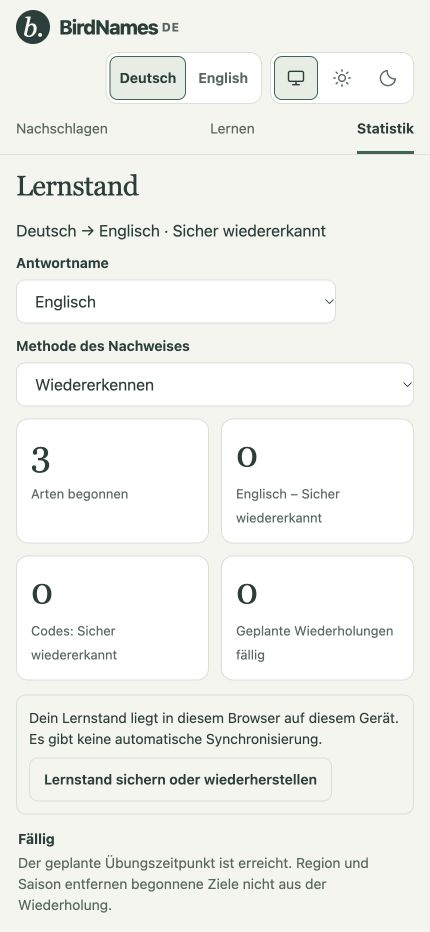
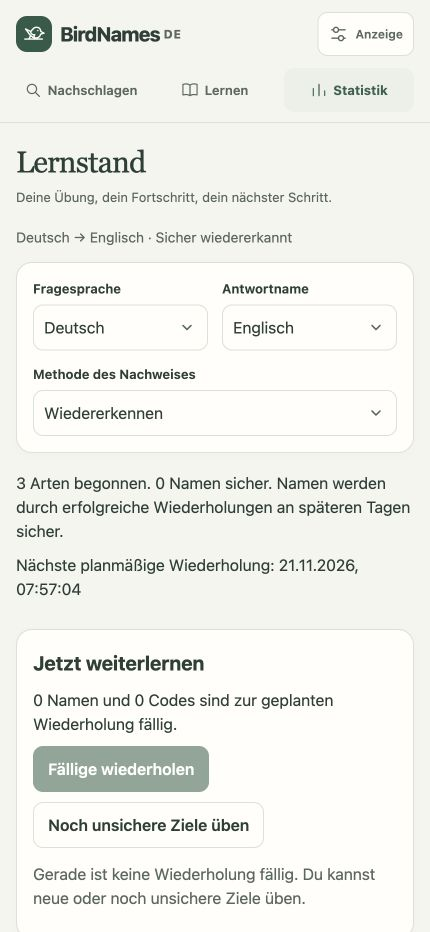
Refresh documentation and README screenshots for current UI

diff --git a/docs/learning-and-storage.md b/docs/learning-and-storage.md
@@ -2,11 +2,13 @@
 
 [Back to the README](../README.md)
 
+Reviewed against commit `62f79cb` on 20 November 2026.
+
 Paths in code examples are relative to the repository root. UI labels use the English interface. Dated review reports retain their release-specific results; the thematic guides describe the documented current behavior.
 
 ## Name languages and learning contexts
 
-The header offers explicit German and English interface choices. In either interface, question and answer names are independently selectable: German, English, Dutch, French, Finnish and the binomial scientific name. A swap button reverses them. Names, codes and mixed lessons support text entry, flashcards, direct multiple choice and “Think first” (options initially hidden). Both names must exist for a species to be eligible; missing translations never fall back to a different answer language. A paused lesson whose name data cannot be loaded is preserved and cannot be resumed until the data returns.
+German and English interface choices are visible in the desktop header; phones group them with theme controls under **Display**. Both interfaces share the same learning state. In either interface, question and answer names are independently selectable: German, English, Dutch, French, Finnish and the binomial scientific name. A swap button reverses them. Names, codes and mixed lessons support text entry, flashcards, direct multiple choice and “Think first” (options initially hidden). Both names must exist for a species to be eligible; missing translations never fall back to a different answer language. A paused lesson whose name data cannot be loaded is preserved and cannot be resumed until the data returns.
 
 Dutch names for the expanded catalogue come from the `Dutch` column of the retained official `eBird_Taxonomy_v2025_5-tab_30Oct2025.xlsx` records. Reproduce them with `python3 scripts/build-name-language.py --language nl --column Dutch`. `dist/languages/nl.json` records provenance and exact official names. Names are literal official records; the catalogue expansion retains the pinned v2025 taxonomy without speculative translations. Dutch names are searchable and shown in lookup alongside the existing names, photos and attribution.
 
@@ -38,7 +40,7 @@ Study feedback and backup errors use explicit locale-aware message composition. 
 
 ## Learning-progress terminology
 
-The daily round offers at most ten targets, due reviews first, with three new introductions per local calendar day across languages and methods. Region/season/species filters govern discovery, while started targets remain eligible for review. Free practice retains the full filters and can introduce more targets. “Keep learning” starts an optional round of up to ten questions directly from completion or an exhausted daily queue, preserving shared species/language/method settings while ignoring hidden custom progress filters and question counts. Custom and direct practice share the queue builder in `dist/practice-queue.js` (`node scripts/test-practice-queue.mjs`). New pairs are introduced before practice. Introduction cards lead with a short memorisation instruction and use the focused study view with Next/Pause controls and compact spacing. At viewport widths of at least 900 px and heights of at least 650 px, actions stay inside the card using sticky positioning; smaller viewports retain the fixed action bar. Image heights budget for all image rows, captions and card padding, with readable minimum sizes and scrolling on small screens. The monospace code badge follows the full answer name on introduction, flashcard and feedback views; code-only answers are not duplicated. “Think first” hides options until requested, without a timer; option order, introduction state and feedback survive pause/reload.
+The daily round offers at most ten targets, due reviews first, with three new introductions per local calendar day across languages and methods. Region/season/species filters govern discovery, while started targets remain eligible for review. Free practice retains the full filters and can introduce more targets. “Keep learning” starts an optional round of up to ten questions directly from completion or an exhausted daily queue, preserving shared species/language/method settings while ignoring hidden custom progress filters and question counts. Custom and direct practice share the queue builder in `dist/practice-queue.js` (`node scripts/test-practice-queue.mjs`). New pairs are introduced before practice. Introduction cards lead with a short memorisation instruction and use the focused study view with Next/Pause controls and compact spacing. At viewport widths of at least 900 px and heights of at least 650 px, actions stay inside the card using sticky positioning; smaller viewports retain the fixed action bar. Image heights budget for all image rows, captions and card padding, with readable minimum sizes and scrolling on small screens. Introductions, revealed flashcards and feedback separate the main answer from a reference panel. In name questions, the scientific reference and smaller code badges appear together after the answer; introductions keep codes in the supplementary species section. Code answers are not duplicated. “Think first” hides options until requested, without a timer; option order, introduction state and feedback survive pause/reload.
 
 `dist/learning-model.js` owns the shared product constants and pure scheduling logic. Evidence is separated by species, question language, answer target and method family (recognition, recall, self-assessment). Three consecutive due successes at least 24 hours after the previous graded attempt confirm security; initial practice, hints, retries and early practice do not. Fixed intervals remain 1/3/7/14/30/60 days. Errors reduce the stage and schedule a ten-minute review. Correct early practice/retries preserve scheduled dates; a successful due short-gap repair schedules the next day without confirmation. Hints preserve confirmations and retain earlier dates. Feedback explanations remain below the images. First answers, supported answers and bounded extra attempts are counted separately. A retry requires at least one intervening question and is preferably placed after three.
 
@@ -60,7 +62,9 @@ completion conditions in German and English.
 
 ## Answer-card explanations
 
-The first-attempt label is hidden; in-round retries show only “Repeat”. After grading, a closed “Why am I seeing this bird?” disclosure follows all photos and their credits, before the Next action in reading/tab order. It contains the pre-grading question reason, method-specific confirmations and scheduling details. Reasons are captured before reviewing the answer and saved with the lesson queue; older graded sessions use neutral wording rather than inferring the reason from updated records. Screenreader feedback focus describes the answer, without automatically reading the folded learning details.
+The first-attempt label is hidden; retries show “Repeat”. Feedback separates the result, the user’s answer and the accepted answer. A reference panel shows the scientific name, codes and German alternatives; comparison pictures follow with their own credits. The former outer More information disclosure has been removed. Below pictures, sibling disclosures provide name meaning, German-name notes/sources and “Why am I seeing this bird?”, followed by a separate eBird link and the Next action. The learning-context disclosure contains the saved pre-grading question reason, confirmations and schedule. Older graded sessions use neutral wording rather than inferring their reason from updated records; focused feedback does not automatically announce folded details.
+
+If German is either the question or answer language, all 47 current alternatives for 34 species are visible during introductions, reveals and feedback. Unambiguous alternatives remain accepted answers. Spatz, Grünling and Rüttelfalke are separately labelled ambiguous and are not accepted as unambiguous answers. Historical names retain their qualifications in source notes. Source explanations and links stay with the name they document. See [the complete display audit](ui-consistency-20261113.md#complete-german-alternative-display-audit) and `scripts/test-answer-feedback.mjs`.
 
 Regional round selection (region, season, chosen frequency groups and historical period) is shown in the folded answer-card explanation instead of above every question. A current addition retains only a short “Currently reported” badge; its observation/expiry dates are shown in the explanation together with the original round-selection snapshot.
 
@@ -71,9 +75,9 @@ The completion summary offers “Back to learning settings”, which opens the e
 Large backups (compact JSON at least 1 MiB) are automatically saved as `.json.gz`
 when the browser supports both Compression Streams APIs. Small backups remain
 readable `.json`; missing or failed compression falls back to compact JSON.
-Both formats retain the existing v1/v2 schema and the same preview and explicit,
-atomic replacement flow. Older JSON exports above the former 5 MB limit remain
-importable. Gzip is detected by its header; damaged archives are rejected.
+Both file formats carry the current version-3 backup schema; versions 1 and 2
+remain importable through the same preview and explicit, atomic replacement flow.
+Older JSON exports above the former 5 MB limit remain importable. Gzip is detected by its header; damaged archives are rejected.
 The common input/expanded-output/export budget is 128 MiB. Expanded bytes are
 counted while streaming and decompression is cancelled on overflow; compression
 does not bypass this limit. Export refuses an oversized regular backup instead
@@ -85,7 +89,7 @@ truncation/checksum errors and bounded expansion.
 
 Statistics visibly identifies browser/device-local storage and links directly to backup controls. The dated JSON download includes all answer-language/code records, method/direction evidence and the daily introduction ledger plus saved species independently of current filters; preferences, paused sessions, drafts and cached media are excluded. Selecting a file only validates and previews it, showing its date, supported learning-target/species counts and the current browser counts. Explicit replacement overwrites all progress without merging and ends paused sessions. Users can download their current records before replacement or cancel without changing them. Empty backups have a distinct removal warning; files containing only unsupported records are rejected, while partially supported files report skipped records.
 
-`dist/learning-storage.js` writes records, the daily ledger and saved lessons in one transaction. Restore publishes the new in-memory state only after the transaction commits; quota, closed-database or synchronous write failures preserve the prior state. Export format v3 includes method/direction evidence, the daily introduction ledger and saved species. Imports accept v1/v2/v3; old counters/dates are retained as historical data, with no invented source-language or method evidence. The first graded legacy review claims its old date once for the selected context. Paused v1 sessions remain resumable. Browser downloads are announced as started, rather than claiming the file has been saved to disk.
+`dist/learning-storage.js` writes records, the daily ledger, saved species and saved lessons in one transaction. Restore publishes the new in-memory state only after the transaction commits; quota, closed-database or synchronous write failures preserve the prior state. Export format v3 includes method/direction evidence, the daily introduction ledger and saved species. Imports accept v1/v2/v3; old counters/dates are retained as historical data, with no invented source-language or method evidence. The first graded legacy review claims its old date once for the selected context. Paused v1 sessions remain resumable. Browser downloads are announced as started, rather than claiming the file has been saved to disk.
 
 ## Protected progress recovery
 
@@ -119,11 +123,11 @@ See [quality-review-20261105.md](quality-review-20261105.md) for the original fi
 
 ## Data and privacy information
 
-`dist/info-page.js` renders matching German and English information sections. Species/media totals and regional coverage/timestamps derive from loaded data; the review date is separate from taxonomy and dataset dates. English source links have English descriptions and retain original titles in a disclosure. The page documents the Actions-only eBird fetch, hosting requests, shared learning context, local storage/cache, backup scope and domain migration. Tests: `node scripts/test-information.mjs`.
+`dist/info-page.js` renders matching German and English information sections. Species/media totals and regional coverage/timestamps derive from loaded data; the review date is separate from taxonomy and dataset dates. English source links have English descriptions and retain original titles in a disclosure. Both information routes have collapsible contents lists with focusable section targets. The page documents the Actions-only eBird fetch, hosting requests, shared learning context, local storage/cache, backup scope and domain migration. Tests: `node scripts/test-information.mjs`.
 
-## Usability changes on 8 November 2026
+## Saved species, statistics and round recovery
 
-Basic learning settings group target, languages, method and pictures before the daily action. Regional and species controls are independently expandable below it. Scientific reference names remain visible on study cards. Answer feedback and revealed flashcards also show the codes directly, at a smaller font size; code answers are not duplicated. Introductions keep supplementary codes inside More information. Origins and external details remain folded. Hinted success and any added retry are explained in immediate feedback. The visible phase distinguishes main questions from extra attempts.
+The daily round is the primary action. On desktop it sits beside the learning-settings summary; on phones these stack. **Change settings** opens target, languages, method and pictures. **Change species selection** separately opens region, seasonal/group filters and selected species. Both offer a direct return to the daily round with focus on a visible action. Hinted success and added retries are explained immediately; the current phase distinguishes main questions from extra attempts.
 
 Statistics has its own persisted question/answer/method viewing context. Changing its selectors does not write learning settings. Only explicit practice actions apply that context. Recognition retains the current recognition format where possible, otherwise Think first.
 

diff --git a/README.md b/README.md
@@ -6,38 +6,54 @@ Look up bird names and learn them with short, spaced-repetition practice rounds.
 
 ## Features on mobile
 
+Current interface, reviewed on 20 November 2026. The screenshots below use the German interface in a mobile browser viewport.
+
 <table>
   <tr>
     <td width="50%" valign="top">
       <h3>Find names across languages</h3>
       <p>Search names and codes, then open a species to compare German, English, Dutch, French, Finnish and scientific names.</p>
-      <a href="docs/screenshots/mobile-lookup.jpg"><img src="docs/screenshots/mobile-lookup.jpg" width="280" alt="Mobile lookup for Blaumeise, showing Eurasian Blue Tit, Pimpelmees and Cyanistes caeruleus"></a>
+      <a href="docs/screenshots/mobile-lookup.jpg"><img src="docs/screenshots/mobile-lookup.jpg" width="280" alt="Expanded mobile lookup card for Blaumeise with English, Dutch, French, Finnish and scientific names plus official codes"></a>
     </td>
     <td width="50%" valign="top">
       <h3>Build a daily learning habit</h3>
       <p>Choose your region, season and languages. Daily rounds introduce a few new targets and bring back scheduled reviews.</p>
-      <a href="docs/screenshots/mobile-daily-learning.jpg"><img src="docs/screenshots/mobile-daily-learning.jpg" width="280" alt="Mobile daily learning setup for German to English, with autumn species from Germany and three new names today"></a>
+      <a href="docs/screenshots/mobile-daily-learning.jpg"><img src="docs/screenshots/mobile-daily-learning.jpg" width="280" alt="Mobile daily round with three new English bird names, collapsed settings and the current German autumn selection"></a>
     </td>
   </tr>
   <tr>
     <td width="50%" valign="top">
       <h3>Practise bird names</h3>
       <p>Think first, then reveal the choices. Text input, flashcards and direct multiple choice are also available.</p>
-      <a href="docs/screenshots/mobile-practice.jpg"><img src="docs/screenshots/mobile-practice.jpg" width="280" alt="Mobile German-to-English practice question for Stockente with four answer choices and round progress"></a>
+      <a href="docs/screenshots/mobile-practice.jpg"><img src="docs/screenshots/mobile-practice.jpg" width="280" alt="Mobile German-to-English think-first question for Buntspecht after revealing four answer choices"></a>
     </td>
     <td width="50%" valign="top">
       <h3>Keep track of your progress</h3>
-      <p>See started species, secure learning targets and due reviews by language and method. Back up or restore your browser-local progress.</p>
-      <a href="docs/screenshots/mobile-progress.jpg"><img src="docs/screenshots/mobile-progress.jpg" width="280" alt="Mobile learning statistics after a three-species example round, with language and method selectors and a backup action"></a>
+      <p>View started species, secure learning targets and scheduled reviews using independent language and method selectors.</p>
+      <a href="docs/screenshots/mobile-progress.jpg"><img src="docs/screenshots/mobile-progress.jpg" width="280" alt="Mobile learning statistics after a three-question example round, showing the language and method selectors and next scheduled review"></a>
+    </td>
+  </tr>
+  <tr>
+    <td width="50%" valign="top">
+      <h3>Understand each answer</h3>
+      <p>Feedback separates the accepted name, scientific reference and official codes. Pictures and their credits follow, with further explanations below.</p>
+      <a href="docs/screenshots/mobile-feedback.jpg"><img src="docs/screenshots/mobile-feedback.jpg" width="280" alt="Correct Buntspecht answer with Great Spotted Woodpecker, Dendrocopos major, official codes and a credited comparison photo"></a>
+    </td>
+    <td width="50%" valign="top">
+      <h3>Save birds for later</h3>
+      <p>Keep a personal species list and practise it with your choice of languages and answer method.</p>
+      <a href="docs/screenshots/mobile-saved-species.jpg"><img src="docs/screenshots/mobile-saved-species.jpg" width="280" alt="Mobile saved-species list containing Blaumeise and the language and answer-method controls for practising it"></a>
     </td>
   </tr>
 </table>
 
-German interface, captured on 8 November 2026 at 430 × 932 CSS pixels (iPhone-sized viewport). Statistics show a three-question example round. Click an image to view it at full size.
+Captured on 20 November 2026 at 430 × 932 CSS pixels using a separate local preview. Lookup and feedback are scrolled to show their details. Statistics show a completed three-question example round; the next-review date belongs to that example. These are browser viewport captures, not physical-device tests. Click an image to view it at full size.
+
+Photos visible in the feedback screenshot: Charles J. Sharp, [male](https://commons.wikimedia.org/wiki/File:Great_spotted_woodpecker_(Dendrocopos_major)_male_Drenthe.jpg) and [female](https://commons.wikimedia.org/wiki/File:Great_spotted_woodpecker_(Dendrocopos_major)_female_Drenthe.jpg) Great Spotted Woodpecker, [CC BY-SA 4.0](https://creativecommons.org/licenses/by-sa/4.0).
 
 ## Save birds for later practice
 
-Use **Save species** in bird details, then open **Saved species** from Lookup or Learn. A saved-species round uses only that list, independently of regional, seasonal and progress filters. It never replaces an existing paused round.
+Use **Save species** on a species card or in search-result details, then open **Saved species** from Lookup or Learn. A saved-species round uses only that list, independently of regional, seasonal and progress filters. It never replaces an existing paused round.
 
 ## How learning works
 
@@ -47,13 +63,15 @@ Your daily round prioritises due reviews and introduces at most three new names 
 
 Choose text input, flashcards, multiple choice or “Think first”, which initially hides the choices. Photos appear during introductions and after answers when pictures are enabled. Statistics distinguish recognition, free recall and self-assessment; progress in one method or language direction does not automatically count as secure knowledge in another.
 
-The app explains its scheduling rules and research references under **Learning method**. See [learning, languages and storage](docs/learning-and-storage.md) for implementation details.
+German alternatives are visible during introductions, answer reveals and feedback whenever German is the question or answer language. Ambiguous alternatives such as Spatz are labelled and shown separately from accepted answers; historical names and source notes remain available in disclosures.
+
+On phones, **Display** groups interface-language and theme controls. **Learning method** and **Data & privacy** include collapsible contents lists. The app explains its scheduling rules and research references under **Learning method**. See [learning, languages and storage](docs/learning-and-storage.md) for implementation details.
 
 ## Privacy and limits
 
 Learning progress is stored in your browser on your device. There is no authentication, analytics, server-side progress database or automatic account/device sync. Browser privacy settings or storage cleanup can remove local progress.
 
-Use **Statistics → Back up and restore progress** to export a portable backup. Importing a backup replaces the destination browser’s progress after confirmation. Saved species are included in version-3 backups; older backups retain the destination browser’s saved-species list. Other preferences and paused rounds are not included. Before changing browsers or site domains, export from the old location first.
+Use **Statistics → Back up and restore progress** to export a portable backup. Backups use `.json`, or `.json.gz` for large exports when browser compression is available. Importing a checked backup replaces the destination browser’s progress after confirmation. Saved species are included in version-3 backups; older backups retain the destination browser’s saved-species list. Other preferences and paused rounds are not included. Before changing browsers or site domains, export from the old location first.
 
 There is no promised offline mode. The app loads its data and photos from static hosting; regional eBird updates run through GitHub Actions, and the browser does not contact the eBird API. Country-list membership records occurrence, including historical rarities and some introduced or escaped birds; it does not establish breeding status. See the in-app **Data & privacy** page for coverage, source periods and limitations.
 
@@ -75,7 +93,7 @@ CI also runs the complete Node/Python suites, data reproducibility checks and ph
 
 ## Data sources and acknowledgement
 
-Taxonomy and common names use the reviewed eBird/Clements 2025 catalogue. Official quick codes come from the 2026 workbook, with documented exceptions and concept-verified scientific-name updates. National lists cover DE, NL and GB; regional occurrence lists and current notable reports use the eBird API. Scientific-name meanings are short editorial explanations with linked references, principally Jobling (2010). Photos and illustrations have individual source credits and licences.
+Taxonomy and common names use the reviewed eBird/Clements 2025 catalogue. Official quick codes come from the 2026 workbook, with documented exceptions and concept-verified scientific-name updates. National lists cover DE, NL and GB; regional occurrence lists and current notable reports use the eBird API. Scientific-name meanings explain the displayed scientific name, including the reviewed 2026 combinations, with linked references principally from Jobling (2010). Dutch and French cover all 940 species; Finnish covers 933. Missing names exclude a species from the affected learning pair rather than falling back to another language. Photos and illustrations have individual source credits and licences.
 
 **The eBird Basic Dataset (EBD) itself is not included in this repository.**
 Neither the country download archives nor raw observation or sampling-event
@@ -120,5 +138,7 @@ The photos and illustrations in `dist/images/` retain their individual licenses 
 | [Deployment and regional data](docs/deployment-and-regions.md) | GitHub Pages, regional API refresh, seasonal selection and current reports |
 | [Private EBD import](docs/ebd-import.md) | Aggregate calculation, review and activation; raw records remain outside Git |
 | [Search design](docs/search-design-20261108.md) | Multilingual lookup ranking and match provenance |
+| [Current UI review](docs/ui-review-20261120.md) | Mobile navigation, controls, answer cards, contents lists and verification limits |
+| [Documentation and screenshot review](docs/documentation-review-20261120.md) | Current documentation corrections and README capture provenance |
 
 Dated reviews in `docs/` record the scope and results of individual releases. Start with the thematic guides above for current behavior.

diff --git a/docs/data-sources.md b/docs/data-sources.md
@@ -2,6 +2,8 @@
 
 [Back to the README](../README.md)
 
+Reviewed against commit `62f79cb` on 20 November 2026.
+
 Paths in code examples are relative to the repository root. UI labels use the English interface. Dated review reports retain their release-specific results; the thematic guides describe the documented current behavior.
 
 ## Scientific-name meanings
@@ -97,8 +99,9 @@ refresh. Older paused lessons and progress remain keyed by the same IDs.
 
 Lookup first adopts the learning country (not its subregion), then independently
 remembers its own geography. Existing saved lookup regions are retained. Country
-selection is always visible; the shared catalogue is available under **All
-supported countries**. Optional subregion and 30-day controls apply within one
+selection is available in **Search area and display**; the shared catalogue is
+available under **All supported countries**. Active geography remains visible
+when the controls are collapsed. Optional subregion and 30-day controls apply within one
 country. Reset preserves country and name languages, clearing search, species
 group, subregion and period. Title/sort language and additional name languages are
 independent of geography and study settings. Scientific names and codes remain
@@ -118,11 +121,11 @@ Node/Python suite, data validation, EBD reproducibility and media validation.
 
 ## German alternative and historical names
 
-`dist/german-names.json` adds a sourced editorial overlay without changing the eBird species dataset. Names are separated into current alternatives (including regional and traditional names) and historical attestations, with per-name source and usage notes. `dist/logic.js` includes these names in search; English and code answers retain their existing acceptance rules. Lookup and all answer reveals/feedback share the same centered-in-study display. See [german-names-update-20261022.md](german-names-update-20261022.md) and run `node scripts/test-german-names.mjs`.
+`dist/german-names.json` adds a sourced editorial overlay without changing the eBird species dataset. Names are separated into current alternatives (including regional and traditional names) and historical attestations, with per-name source and usage notes. `dist/logic.js` includes these names in search; English and code answers retain their existing acceptance rules. When German participates in a learning pair, current alternatives appear in the answer/reference area in both directions; ambiguous alternatives are labelled separately from accepted answers. Historical names and their qualifications remain in source disclosures. See [german-names-update-20261022.md](german-names-update-20261022.md) and run `node scripts/test-german-names.mjs`.
 
 ## Code collision audit
 
-The [quick-code policy](#official-quick-code-policy) describes the mixed source versions and accepted scientific-name updates. The stored `sci` field remains the 2025 source key for provenance and media; etymologies explicitly refer to that name. No equivalence is inferred from a shared species ID, code or similar spelling. Concept changes for Spotted Flycatcher, European Robin and Great Horned Owl remain migration decisions for a future taxonomy update. See [the identity review](catalog-identity-review-20261108.md) and [the quality review and fixes](quality-review-20261108.md).
+The [quick-code policy](#official-quick-code-policy) describes the mixed source versions and accepted scientific-name updates. The stored `sci` field remains the 2025 source key for provenance and media; explanations instead match the displayed name from `primaryName(species, 'sci')`, including the eleven reviewed 2026 combinations. The validator and renderer reject stale explanations whose exact name does not match; the original `sci` field is not reused by species ID alone. No concept equivalence is inferred from a shared species ID, code or similar spelling. Concept changes for Spotted Flycatcher, European Robin and Great Horned Owl remain migration decisions for a future taxonomy update. See [the identity review](catalog-identity-review-20261108.md) and [the quality review and fixes](quality-review-20261108.md).
 
 Run `python3 scripts/audit-codes.py` to validate all catalogue code fields against the saved literal source records and regenerate [quick-code-audit.json](quick-code-audit.json). The report lists every ambiguous code, its species and source types. In the current 940-species catalogue, 197 of 1,966 distinct accepted codes match multiple species. There are 42 common-name/banding collisions and 12 scientific/banding collisions (categories can overlap). Adding banding codes to scientific and common-name codes creates 46 additional ambiguous codes; some ambiguities already exist within a single source type. These are catalogue counts, not worldwide counts. Three-letter source entries are outside the app's four-letter code policy.
 

diff --git a/docs/documentation-review-20261120.md b/docs/documentation-review-20261120.md
@@ -1,0 +1,35 @@
+# Documentation and README screenshots · 20 November 2026
+
+Reviewed the README and the current development, learning/storage, data-source and deployment guides against application commit `62f79cb` and the 19–20 November UI review. Dated earlier reports retain their original scope and verification claims.
+
+## Corrections and additions
+
+- Documented the current desktop/mobile navigation, phone Display disclosure, collapsed lookup controls, learning-settings layout and information-page contents lists.
+- Replaced the old code-badge/outer More information description with the current answer, reference, picture and sibling-source sections.
+- Documented visible German alternatives in both learning directions, with ambiguous alternatives separate from accepted answers. The existing audit covers all 47 current alternatives for 34 species.
+- Clarified that scientific-name explanations match the displayed name, including the eleven reviewed 2026 combinations, rather than blindly reusing the stored 2025 source key.
+- Retained French/Dutch coverage of 940 species and Finnish coverage of 933, with missing-name exclusion and interface-language fallback for explanation prose.
+- Corrected the stale JSON/gzip schema description to version 3, retained v1/v2 import compatibility, and included saved species in the atomic-storage description.
+- Distinguished version-2 lesson/evidence handling from version-3 portable backups and added the missing module references to the development guide.
+
+## Screenshot provenance
+
+All six README captures were made from the unchanged application in a separate local origin on 20 November 2026, at **430 × 932 CSS pixels**, German interface, light theme. They are ordinary viewport screenshots, not full-page composites or physical-phone captures. No production progress was read or modified, and no browser state was injected to manufacture the views.
+
+| Image | Visible state |
+| --- | --- |
+| [Lookup](screenshots/mobile-lookup.jpg) | Blaumeise search result expanded; scrolled to show every name language, official codes and the save action |
+| [Daily learning](screenshots/mobile-daily-learning.jpg) | Ready daily round, three new English names, Germany/autumn and collapsed shared settings |
+| [Practice](screenshots/mobile-practice.jpg) | Buntspecht think-first question after revealing four options |
+| [Feedback](screenshots/mobile-feedback.jpg) | Correct Buntspecht answer, scientific name, codes and credited comparison pictures; scrolled to the answer/photo area |
+| [Progress](screenshots/mobile-progress.jpg) | Three started species after a completed three-question example round; no secure status or due review yet |
+| [Saved species](screenshots/mobile-saved-species.jpg) | Blaumeise saved locally, with the saved-round language/method controls |
+
+The example daily round introduced Buntspecht, Rohrweihe and Rostgans, then completed all three questions correctly through the UI. The statistics screenshot’s next-review timestamp belongs to that example. The saved list contains Blaumeise. All six files replace or extend the README’s 8 November images. Bird photos in feedback retain their credits and have explicit source/licence links below the README gallery.
+
+## Verification and limits
+
+- Passed `npm test` and every `scripts/test-*.mjs` suite, all 47 Python tests, catalogue validation, scientific-name and EBD reproduction checks, private-EBD checks, media licence/hash validation, production JavaScript syntax and Git whitespace checks.
+- Verified README/local documentation links and screenshot dimensions. Application/data files in `dist/` and `data/` have no changes in this documentation update.
+- Browser checks exercised lookup/search details, saving a species, daily introductions, think-first choices, correct feedback, round completion and independent statistics. The reviewed statistics view measured 430 px document width at a 430 px viewport; no browser errors were recorded. The temporary viewport override and local server were reset/stopped after capture.
+- This task does not repeat the full earlier multi-viewport, dark-mode or keyboard audit. Physical mobile keyboards and screenreader speech were not tested. The full native backup-import replacement was not repeated; automated backup/recovery tests passed. See [the UI review](ui-review-20261120.md) for the wider preceding audit and its limits.

diff --git a/docs/development.md b/docs/development.md
@@ -2,6 +2,8 @@
 
 [Back to the README](../README.md)
 
+Reviewed against commit `62f79cb` on 20 November 2026.
+
 Paths in code examples are relative to the repository root. UI labels use the English interface. Dated review reports retain their release-specific results; the thematic guides describe the documented current behavior.
 
 ## Application modules
@@ -15,7 +17,13 @@ Paths in code examples are relative to the repository root. UI labels use the En
 - `dist/learning-selection-copy.js`: shared species-selection and daily introduction wording.
 - `dist/app.js`: lookup, daily/custom learning, text/flashcard/direct-choice/think-first answers, IndexedDB persistence, statistics, JSON export/import and theme.
 - `dist/study-state.js`: serializable lesson recovery, single grading and separate first-question/retry progress.
-- `dist/style.css`: responsive layout and dark mode.
+- `dist/style.css`: shared responsive layout, light/dark themes and mobile controls.
+- `dist/lookup-settings.js`: persisted geography, title/sort language and additional-name selection.
+- `dist/backup-file.js`: bounded JSON/gzip backup encoding and decoding.
+- `dist/progress-validation.js`: shared record, method-context and daily-ledger validation.
+- `dist/usability-state.js`: saved-species validation and reversible round-ending state.
+- `dist/scientific-names.js` and `dist/scientific-name-aliases.js`: exact-name explanations and reviewed 2026 display/answer aliases.
+- `dist/standalone-page.js`: theme handling on the generated seasonal-method page.
 - `dist/validation.json`: complete machine validation result, code collisions and limitations.
 
 ## Checks
@@ -89,6 +97,12 @@ The initial HTML has a meaningful heading, four original hash-route containers a
 The [public WAVE report](https://wave.webaim.org/report#/https://dg1tal.github.io/birdnamesde/) originally found 0 errors, 0 contrast errors and 6 alerts (one heading-structure alert and five broken same-page targets). After deployment, a rerun found 0 errors, 0 contrast errors and 1 alert: the intentional `noscript` element explaining the JavaScript requirement in both languages. All six original alerts were resolved.
 
 The report frame contained no scripts and an unloaded stylesheet (`link.sheet` was null). Its heading/fragment findings concern the initial document; its contrast result does not assess the application palette. The live quiz, feedback, backup interactions and styled contrast require separate checks. WebAIM recommends its browser extension for dynamic content. Initial descriptions and noscript guidance do not make the app work without JavaScript.
+
+## Current UI and screenshot verification
+
+The current layout uses a shared bird mark, navigation icons, view headings, surfaces and controls in both themes. Phones group language/theme controls under **Display**, stack narrow filters and use 16px form text. Image credits/name-source disclosures have touch-sized targets. Information pages have collapsible contents lists; native dialogs keep Close reachable even with long species names. The generated seasonal page shares theme handling and keeps wide tables internally scrollable.
+
+See [the app-wide 20 November review](ui-review-20261120.md) and [the README capture/review record](documentation-review-20261120.md). The latter records fresh viewport screenshots, not a repeat of every earlier device-size or accessibility check.
 
 ## Earlier UI reviews
 

diff --git a/docs/deployment-and-regions.md b/docs/deployment-and-regions.md
@@ -2,6 +2,8 @@
 
 [Back to the README](../README.md)
 
+Reviewed against commit `62f79cb` on 20 November 2026.
+
 Paths in code examples are relative to the repository root. UI labels use the English interface. Dated review reports retain their release-specific results; the thematic guides describe the documented current behavior.
 
 ## GitHub Pages
@@ -18,7 +20,7 @@ Learning progress is stored per browser origin. Before switching domains, open *
 
 The generated `dist/regions.json` contains public region labels, matched species IDs, total returned taxon counts and per-list fetch timestamps. It is generated during deployment, not committed. The browser never sends a request to eBird. The updater loads the previous public Pages snapshot without credentials and retains successful lists independently if a refresh fails; a failed region discovery or completely unusable first snapshot stops deployment. Credentials are sent only to the fixed HTTPS eBird API origin, and redirects are rejected. Response bodies and credential-bearing exceptions are not logged. Only allowlisted fields can be copied from the previous snapshot. A list older than three days is visibly marked in the UI.
 
-Lookup has an independently remembered optional region filter with all-time or recent-30-day records; its former vocabulary-level filter has been removed. Learning region and list mode persist with the shared study settings. Regional discovery intersects species-group and name-availability filters; custom practice also applies its progress filter. Every new learning selection requires a country or region; missing geography never enables unrestricted learning. Missing or empty regional lists prevent introductions/custom questions from that selection; daily due reviews of started targets remain available. Regional custom-practice distractors use the saved regional membership, while daily-round distractors can come from the whole eligible catalogue. Paused lessons preserve their original queue. Daily regional data does not automatically change the reviewed catalogue; progress/export compatibility follows the [version-2 learning model](learning-and-storage.md#learning-progress-terminology).
+Lookup has an independently remembered optional region filter with all-time or recent-30-day records; its former vocabulary-level filter has been removed. Learning region and list mode persist with the shared study settings. Regional discovery intersects species-group and name-availability filters; custom practice also applies its progress filter. Every new learning selection requires a country or region; missing geography never enables unrestricted learning. Missing or empty regional lists prevent introductions/custom questions from that selection; daily due reviews of started targets remain available. Regional custom-practice distractors use the saved regional membership, while daily-round distractors can come from the whole eligible catalogue. Paused lessons preserve their original queue. Daily regional data does not automatically change the reviewed catalogue. Version-2 lesson/evidence handling is separate from the current version-3 backup format; see [learning and storage](learning-and-storage.md#backup-and-restore-flow).
 
 Checks: `python3 -m unittest discover -s scripts -p 'test_regions.py'` and `node scripts/test-regions.mjs`. API reference: https://documenter.getpostman.com/view/664302/S1ENwy59?version=latest .
 
